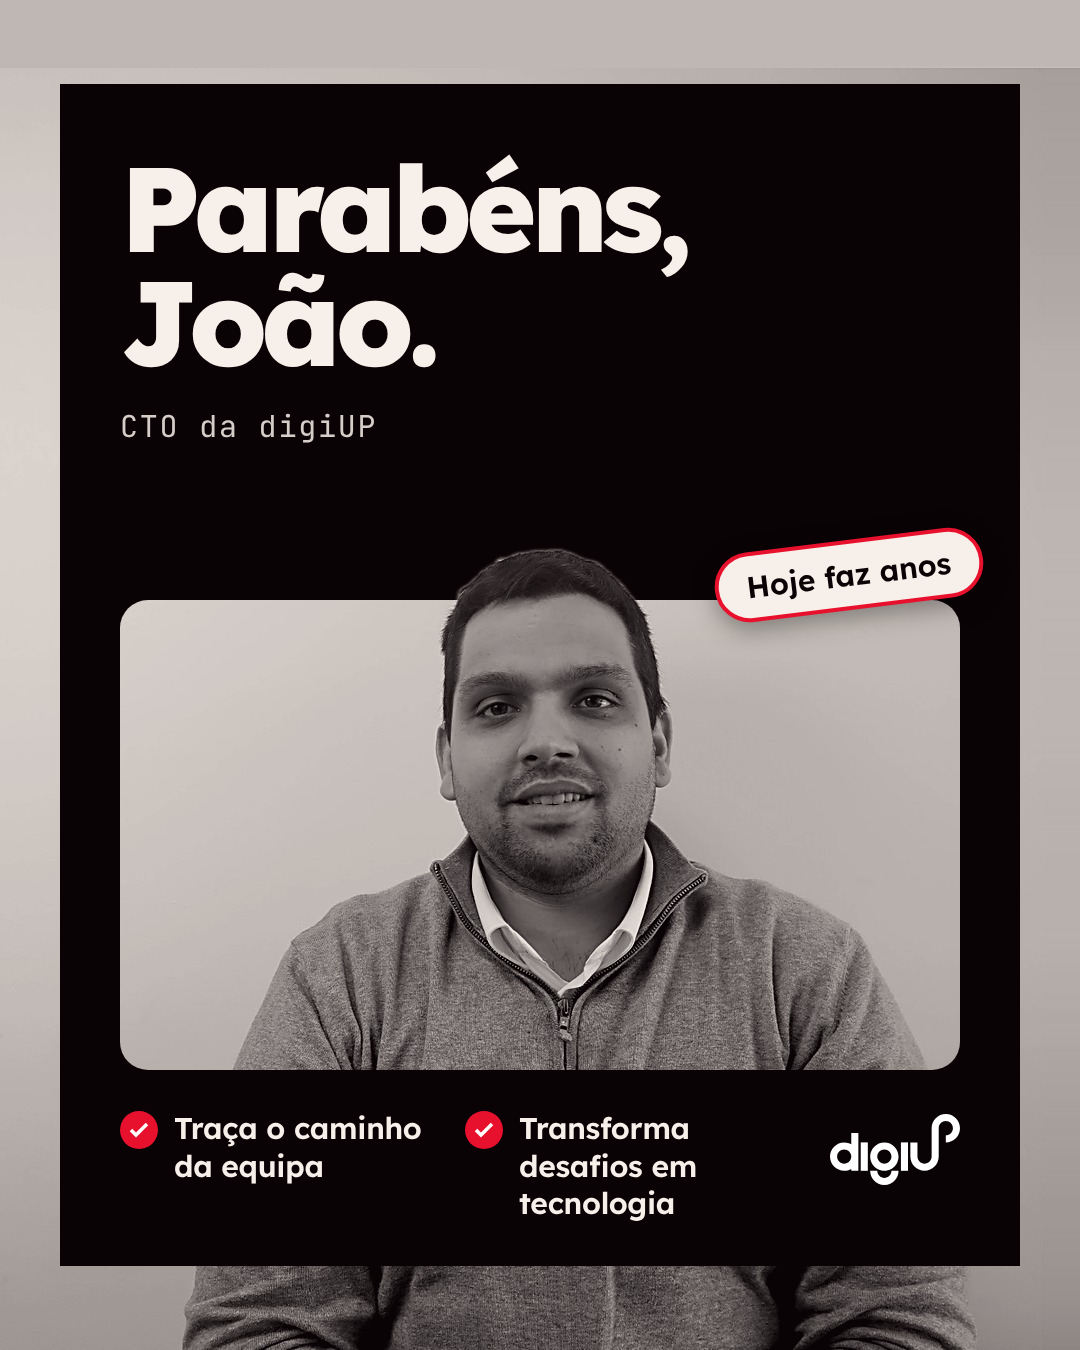
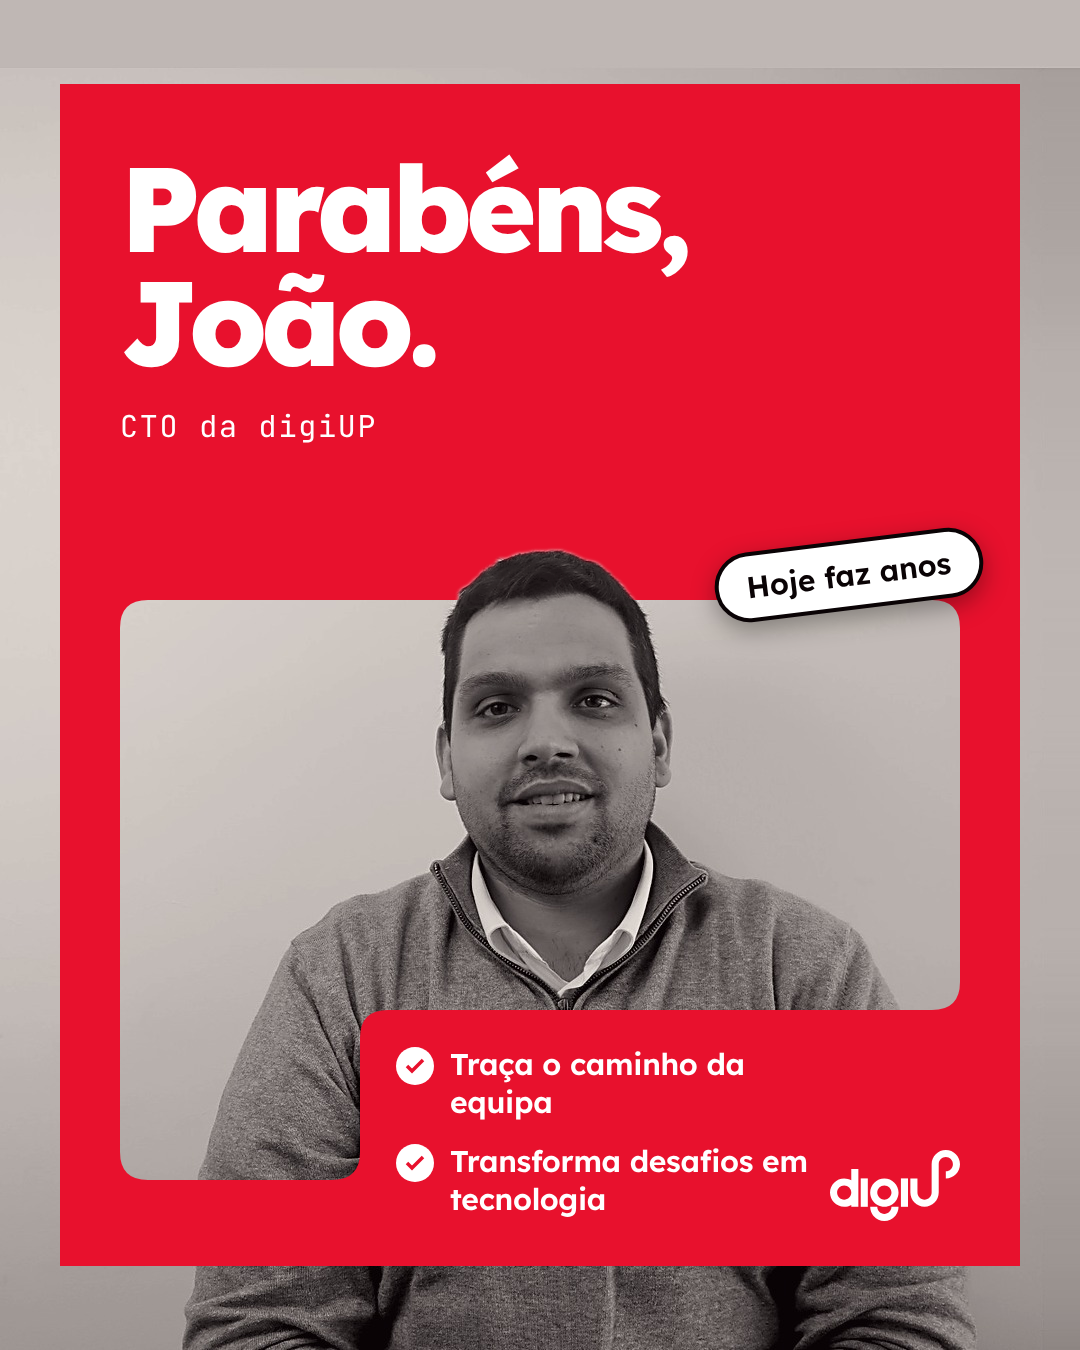
Aniversário do João v2: painel vermelho com janela irregular
O painel passa a vermelho e a janela da foto ganha um degrau no canto
inferior direito, onde entram os vistos e o logótipo, como na
referência. Texto pequeno a branco para manter o contraste AA.

Claude-Session: https://claude.ai/code/session_0173GtUhSHhHFQaxLRUGv3dG

diff --git a/aniversario-joao/post-v2/carrossel.html b/aniversario-joao/post-v2/carrossel.html
@@ -17,28 +17,32 @@ body{background:#17181a;font-family:var(--du-font-sans);padding:56px}
 .panel{position:absolute;left:60px;top:84px;right:60px;bottom:84px;background:var(--du-black)}
 .window{position:absolute;left:120px;top:600px;width:840px;height:470px;border-radius:28px;background:url(bg.jpg) -120px -600px/1080px 1350px}
 .check{display:flex;gap:16px;align-items:flex-start;font-size:30px;font-weight:600;line-height:1.25;letter-spacing:-.01em}
-.check i{flex:none;width:38px;height:38px;border-radius:50%;background:var(--du-red);display:flex;align-items:center;justify-content:center;margin-top:1px}
+.check i{flex:none;width:38px;height:38px;border-radius:50%;background:var(--du-white);display:flex;align-items:center;justify-content:center;margin-top:1px}
 </style>
 </head>
 <body>
 <section class="s" id="s1">
-  <div class="panel"></div>
-  <div class="window" role="img" aria-label="Retrato de João Nascimento, a sorrir, de camisola cinzenta sobre camisa branca."></div>
+  <!-- painel vermelho irregular: retângulo menos a janela, com o degrau onde entram os vistos -->
+  <svg class="abs" aria-hidden="true" style="inset:0" width="1080" height="1350" viewBox="0 0 1080 1350">
+    <path fill-rule="evenodd" fill="#e8112d" d="M60 84 H1020 V1266 H60 Z
+      M148 600 H932 Q960 600 960 628 V982 Q960 1010 932 1010 H388 Q360 1010 360 1038 V1152 Q360 1180 332 1180 H148 Q120 1180 120 1152 V628 Q120 600 148 600 Z"/>
+  </svg>
+  <div class="abs" role="img" aria-label="Retrato de João Nascimento, a sorrir, de camisola cinzenta sobre camisa branca." style="left:120px;top:600px;width:840px;height:410px"></div>
   <!-- só a cabeça sai da janela, por cima do painel -->
   <img class="abs" src="joao-recorte.png" alt="" style="inset:0;width:1080px;height:1350px;clip-path:inset(0 0 744px 0)">
 
-  <div class="abs" style="left:120px;top:150px">
+  <div class="abs" style="left:120px;top:150px;color:var(--du-white)">
     <div style="font-size:120px;font-weight:800;letter-spacing:-.05em;line-height:.95">Parabéns,<br>João.</div>
-    <div style="margin-top:28px;font-family:var(--du-font-mono);font-size:30px;letter-spacing:.06em;color:var(--du-cream-86)">CTO da digiUP</div>
+    <div style="margin-top:28px;font-family:var(--du-font-mono);font-size:30px;letter-spacing:.06em">CTO da digiUP</div>
   </div>
 
-  <div class="abs" style="right:96px;top:540px;transform:rotate(-7deg);background:var(--du-cream);color:var(--du-black);border:4px solid var(--du-red);border-radius:999px;padding:12px 28px;font-size:30px;font-weight:600;box-shadow:0 8px 24px rgba(0,0,0,.35)">Hoje faz anos</div>
+  <div class="abs" style="right:96px;top:540px;transform:rotate(-7deg);background:var(--du-white);color:var(--du-black);border:4px solid var(--du-black);border-radius:999px;padding:12px 28px;font-size:30px;font-weight:600;box-shadow:0 8px 24px rgba(0,0,0,.35)">Hoje faz anos</div>
 
-  <div class="abs" style="left:120px;right:120px;top:1110px;display:grid;grid-template-columns:1fr 1fr 150px;gap:32px;align-items:start">
-    <div class="check"><i aria-hidden="true"><svg width="20" height="16" viewBox="0 0 20 16"><path d="M2 8l5 5L18 2" fill="none" stroke="#fff" stroke-width="3.5"/></svg></i>Traça o caminho da equipa</div>
-    <div class="check"><i aria-hidden="true"><svg width="20" height="16" viewBox="0 0 20 16"><path d="M2 8l5 5L18 2" fill="none" stroke="#fff" stroke-width="3.5"/></svg></i>Transforma desafios em tecnologia</div>
-    <img src="digiup-white.svg" alt="digiUP" style="width:130px;justify-self:end;margin-top:4px">
+  <div class="abs" style="left:396px;top:1046px;width:420px;display:flex;flex-direction:column;gap:22px;color:var(--du-white)">
+    <div class="check"><i aria-hidden="true"><svg width="20" height="16" viewBox="0 0 20 16"><path d="M2 8l5 5L18 2" fill="none" stroke="#e8112d" stroke-width="3.5"/></svg></i>Traça o caminho da equipa</div>
+    <div class="check"><i aria-hidden="true"><svg width="20" height="16" viewBox="0 0 20 16"><path d="M2 8l5 5L18 2" fill="none" stroke="#e8112d" stroke-width="3.5"/></svg></i>Transforma desafios em tecnologia</div>
   </div>
+  <img class="abs" src="digiup-white.svg" alt="digiUP" style="right:120px;top:1150px;width:130px">
 </section>
 </body>
 </html>

diff --git a/aniversario-joao/README.md b/aniversario-joao/README.md
@@ -4,4 +4,4 @@
 - `story/` — versão Story 1080×1920.
 
 Para outra pessoa da equipa: trocar `joao-pessoa.png` e `joao-glow.png` (recorte e brilho gerados a partir da foto original), o nome, o cargo e as duas frases em `carrossel.html`. Verificar com `node ferramentas/auditoria-acessibilidade.js aniversario-joao/post`.
-- `post-v2/` — versão alternativa (inspirada num anúncio de recrutamento): painel preto sobre a foto, janela recortada com a cabeça a sair da janela, autocolante «Hoje faz anos» e duas qualidades com vistos.
+- `post-v2/` — versão alternativa (inspirada num anúncio de recrutamento): painel vermelho sobre a foto, janela recortada irregular (com degrau para os vistos) e a cabeça a sair da janela, autocolante «Hoje faz anos» e duas qualidades com vistos.
